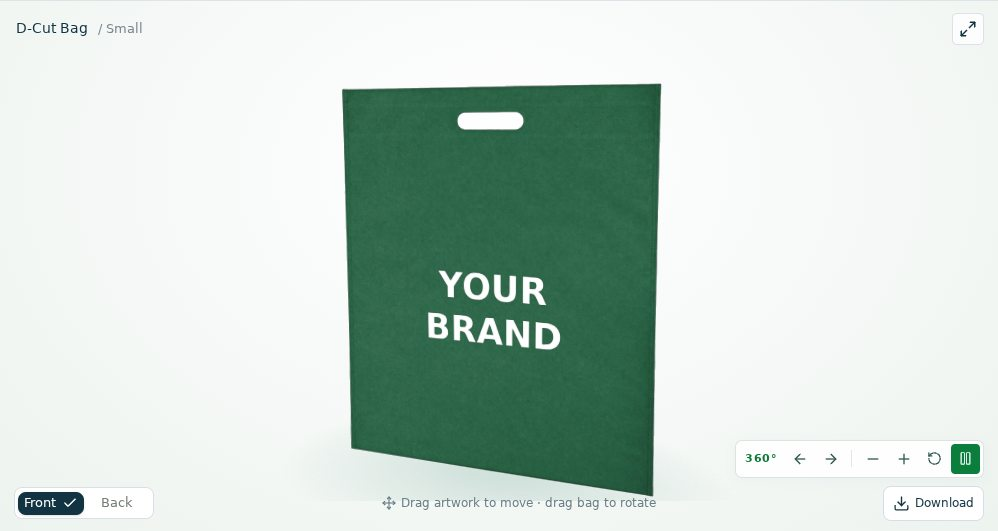
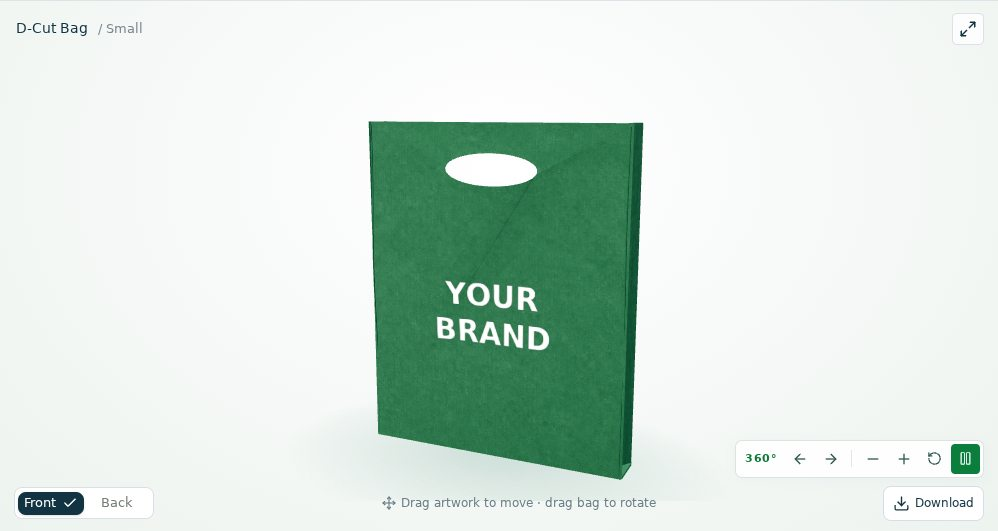
Update Site source

Changed region(s): [[0.3417, 0.1507, 0.6834, 0.9341], [0.4349, 0.7533, 0.4659, 0.7834]]

diff --git a/lib/studio-scene.ts b/lib/studio-scene.ts
@@ -214,6 +214,19 @@ export function createStudioScene(
       s.lineTo(-1.04, 1.07);
       s.quadraticCurveTo(-half, 0.95, -half, 0.65);
       s.closePath();
+    } else if (product === "string-bag") {
+      s.moveTo(-half + 0.12, bottom);
+      s.lineTo(half - 0.12, bottom);
+      s.quadraticCurveTo(half, bottom, half, bottom + 0.13);
+      s.lineTo(half, 0.18);
+      s.quadraticCurveTo(half, 0.65, 0.75, 1.0);
+      s.quadraticCurveTo(0.51, top - 0.06, 0.4, top);
+      s.lineTo(-0.4, top);
+      s.quadraticCurveTo(-0.51, top - 0.06, -0.75, 1.0);
+      s.quadraticCurveTo(-half, 0.65, -half, 0.18);
+      s.lineTo(-half, bottom + 0.13);
+      s.quadraticCurveTo(-half, bottom, -half + 0.12, bottom);
+      s.closePath();
     } else {
       s.moveTo(-half, bottom);
       s.lineTo(half, bottom);
@@ -226,21 +239,41 @@ export function createStudioScene(
     }
     return s;
   }
-  const shaped = product === "d-cut-bag" || product === "t-shirt-bag";
-  // Display the same photographed bag in both preview modes. Geometry only
-  // supplies depth at the silhouette edge; the front is never repainted.
-  const photoShell = true;
+  const shaped = product === "d-cut-bag" || product === "t-shirt-bag" || product === "string-bag";
+  // The product photograph becomes the fabric on a real bag mesh. Side
+  // gussets, the base, mouth and handles are modelled separately.
+  const photoShell = false;
   const photoPlaneSize = 4;
   const photoPlaneCenterY = 0.18;
   const photoFaceZ = depth / 2 + 0.03;
   const photoCanvas = document.createElement("canvas");
   photoCanvas.width = photoCanvas.height = 1440;
-  const photoTexture = photoShell ? new THREE.CanvasTexture(photoCanvas) : null;
+  const photoTexture = new THREE.CanvasTexture(photoCanvas);
+  const clothCanvas = document.createElement("canvas");
+  clothCanvas.width = clothCanvas.height = 256;
+  const clothTexture = new THREE.CanvasTexture(clothCanvas);
+  clothTexture.colorSpace = THREE.SRGBColorSpace;
+  clothTexture.anisotropy = Math.min(8, renderer.capabilities.getMaxAnisotropy());
+  textures.add(clothTexture);
+  // Both photographed faces share a subdivided surface. The image supplies
+  // fabric detail; the mesh supplies the small bulge of a filled bag.
+  const photoFaceGeometry = photoShell
+    ? new THREE.PlaneGeometry(photoPlaneSize, photoPlaneSize, 72, 72)
+    : null;
   if (photoTexture) {
     photoTexture.colorSpace = THREE.SRGBColorSpace;
     photoTexture.anisotropy = Math.min(4, renderer.capabilities.getMaxAnisotropy());
     textures.add(photoTexture);
   }
+  const photographedFabric = new THREE.MeshStandardMaterial({
+    map: photoTexture,
+    bumpMap: bump,
+    bumpScale: 0.012,
+    roughness: 0.92,
+    metalness: 0,
+    side: THREE.FrontSide,
+  });
+  materials.add(photographedFabric);
   if (spec.handles && !photoShell) {
     // The narrow dark opening and rolled upper lip make the bag read as an
     // open, sewn object instead of two flat printed planes.
@@ -260,7 +293,7 @@ export function createStudioScene(
         0.013,
       );
   }
-  function faceGeometry() {
+  function faceGeometry(forPhoto = false) {
     const geometry = shaped
       ? new THREE.ShapeGeometry(outline(), 40)
       : new THREE.PlaneGeometry(width, top - bottom, 56, 56);
@@ -276,8 +309,10 @@ export function createStudioScene(
       const fullHeight = fullTop - bottom;
       const scale = Math.min(650 / width, 690 / fullHeight);
       const centerY = (fullTop + bottom) / 2;
-      uv[i * 2] = (400 + xx * scale) / 800;
-      uv[i * 2 + 1] = 1 - (400 - (y - centerY) * scale) / 800;
+      uv[i * 2] = forPhoto ? (xx + half) / width : (400 + xx * scale) / 800;
+      uv[i * 2 + 1] = forPhoto
+        ? (y - bottom) / (top - bottom)
+        : 1 - (400 - (y - centerY) * scale) / 800;
     }
     geometry.setAttribute("uv", new THREE.BufferAttribute(uv, 2));
     geometry.computeVertexNormals();
@@ -288,7 +323,7 @@ export function createStudioScene(
   for (const face of [1, -1]) {
     const panel = photoShell
       ? add(
-          new THREE.PlaneGeometry(photoPlaneSize, photoPlaneSize),
+          photoFaceGeometry!,
           new THREE.MeshBasicMaterial({
             map: photoTexture,
             transparent: true,
@@ -297,7 +332,7 @@ export function createStudioScene(
             side: THREE.FrontSide,
           }),
         )
-      : add(faceGeometry());
+      : add(faceGeometry(true), photographedFabric);
     if (photoShell) panel.position.set(0, photoPlaneCenterY, face * photoFaceZ);
     if (face < 0) panel.rotation.y = Math.PI;
     faceSides.set(panel, face > 0 ? "front" : "back");
@@ -322,7 +357,7 @@ export function createStudioScene(
     });
     const print = add(
       photoShell
-        ? new THREE.PlaneGeometry(photoPlaneSize, photoPlaneSize)
+        ? photoFaceGeometry!
         : faceGeometry(),
       ink,
     );
@@ -332,7 +367,7 @@ export function createStudioScene(
     if (face < 0) print.rotation.y = Math.PI;
     faceSides.set(print, face > 0 ? "front" : "back");
     if (photoShell) continue;
-    for (const x of [-half + 0.022, half - 0.022]) {
+    for (const x of product === "string-bag" ? [] : [-half + 0.022, half - 0.022]) {
       const pts: THREE.Vector3[] = [];
       const seamTop = product === "t-shirt-bag" ? 0.65 : top - 0.03;
       for (let i = 0; i <= 30; i++) {
@@ -350,16 +385,6 @@ export function createStudioScene(
         }
         seam(pts);
       }
-    if (product === "d-cut-bag") {
-      const pts: THREE.Vector3[] = [];
-      for (let i = 0; i <= 64; i++) {
-        const t = (i / 64) * Math.PI * 2,
-          x = 0.447 * Math.cos(t),
-          y = top - 0.4 + 0.158 * Math.sin(t);
-        pts.push(new THREE.Vector3(xAt(x, y), y, face * (zAt(x, y) + 0.008)));
-      }
-      seam(pts, 0.005);
-    }
     if (spec.handles) {
       const positions: number[] = [],
         indices: number[] = [],
@@ -413,55 +438,8 @@ export function createStudioScene(
       }
     }
   }
-  // Photograph edges determine the gusset outline, so no side can protrude
-  // beyond the photographed bag when it turns.
-  const edgeRows = 44;
-  const photoEdges: { side: number; geometry: THREE.BufferGeometry }[] = [];
-  if (photoShell)
-    for (const side of [-1, 1]) {
-      const geometry = new THREE.BufferGeometry();
-      geometry.setAttribute(
-        "position",
-        new THREE.BufferAttribute(new Float32Array((edgeRows + 1) * 2 * 3), 3),
-      );
-      const indices: number[] = [];
-      for (let i = 0; i < edgeRows; i++) {
-        const n = i * 2;
-        indices.push(n, n + 1, n + 2, n + 1, n + 3, n + 2);
-      }
-      geometry.setIndex(indices);
-      add(geometry, seamMat);
-      photoEdges.push({ side, geometry });
-    }
   let lastPhoto: HTMLCanvasElement | null = null;
-  function updatePhotoEdges(photo: HTMLCanvasElement) {
-    const { width: w, height: h } = photo;
-    const pixels = photo.getContext("2d", { willReadFrequently: true })!
-      .getImageData(0, 0, w, h).data;
-    const start = product === "d-cut-bag" ? 0.12 : 0.37;
-    for (const { side, geometry } of photoEdges) {
-      const position = geometry.attributes.position as THREE.BufferAttribute;
-      for (let row = 0; row <= edgeRows; row++) {
-        // Stop above the folded bottom edge; the photograph already contains
-        // that depth and a generated strip would stick out as a loose triangle.
-        const fraction = start + ((0.78 - start) * row) / edgeRows;
-        const py = Math.min(h - 1, Math.round(fraction * h));
-        let px = side < 0 ? 0 : w - 1;
-        const step = side < 0 ? 1 : -1;
-        while (px >= 0 && px < w && pixels[(py * w + px) * 4 + 3] < 220)
-          px += step;
-        if (px < 0 || px >= w) px = side < 0 ? w * 0.3 : w * 0.7;
-        const x = (px / w - 0.5) * photoPlaneSize - side * 0.12;
-        const y = photoPlaneCenterY + (0.5 - fraction) * photoPlaneSize;
-        position.setXYZ(row * 2, x, y, photoFaceZ - 0.022);
-        position.setXYZ(row * 2 + 1, x, y, -photoFaceZ + 0.022);
-      }
-      position.needsUpdate = true;
-      geometry.computeVertexNormals();
-    }
-  }
-  // The procedural gussets remain available if a future approved 3D model
-  // replaces the photo-backed surfaces.
+  // Side gussets have their own mesh; they carry the fabric crop around the bag.
   const sideTop = product === "t-shirt-bag" ? 0.72 : top;
   if (!photoShell) for (const side of [-1, 1]) {
     const g = new THREE.PlaneGeometry(depth, sideTop - bottom, 16, 40),
@@ -470,10 +448,16 @@ export function createStudioScene(
       const z = pos.getX(i),
         y = pos.getY(i) + (sideTop + bottom) / 2;
       const fold = Math.sin((z / depth + 0.5) * Math.PI) *
-        (product === "box-bag" ? 0.14 : 0.075);
+        (product === "box-bag" ? 0.14 : product === "t-shirt-bag" ? 0.16 : 0.075);
       pos.setXYZ(
         i,
-        side * (Math.abs(xAt(half, y)) - fold - (photoShell ? 0.22 : 0)),
+        side * (
+          (product === "string-bag"
+            ? half * (1 - 0.6 * Math.min(1, Math.max(0, (y - 0.18) / (top - 0.18))))
+            : Math.abs(xAt(half, y))) -
+          fold -
+          (photoShell ? 0.22 : 0)
+        ),
         y,
         z,
       );
@@ -498,26 +482,23 @@ export function createStudioScene(
         );
   }
   if (product === "string-bag" && !photoShell)
-    for (const side of [-1, 1]) {
+    for (const face of [-1, 1]) {
       seam(
         [
-          new THREE.Vector3(side * 0.78, top - 0.08, 0.24),
-          new THREE.Vector3(side * 1.28, top - 0.25, 0.17),
-          new THREE.Vector3(side * 1.52, -0.4, 0.05),
-          new THREE.Vector3(side * 1.15, bottom + 0.03, 0.1),
-          new THREE.Vector3(side * 1.3, -0.25, 0.23),
-          new THREE.Vector3(side * 0.7, top - 0.13, 0.3),
+          new THREE.Vector3(-0.38, top - 0.05, face * (depth / 2 + 0.015)),
+          new THREE.Vector3(0, top - 0.18, face * (depth / 2 + 0.04)),
+          new THREE.Vector3(0.38, top - 0.05, face * (depth / 2 + 0.015)),
         ],
-        0.018,
+        0.015,
         cordMat,
       );
       seam(
         [
-          new THREE.Vector3(-0.88, top - 0.12, 0.25),
-          new THREE.Vector3(0, top - 0.14, 0.27),
-          new THREE.Vector3(0.88, top - 0.12, 0.25),
+          new THREE.Vector3(0.12, top - 0.16, face * (depth / 2 + 0.05)),
+          new THREE.Vector3(0.25, top - 0.42, face * (depth / 2 + 0.08)),
+          new THREE.Vector3(0.22, top - 0.7, face * (depth / 2 + 0.07)),
         ],
-        0.014,
+        0.012,
         cordMat,
       );
     }
@@ -899,16 +880,92 @@ export function createStudioScene(
       selection = selected;
       const hex = (colors.find((c) => c.name === design.color) || colors[0])
         .hex;
-      fabric.color.set(hex);
+      fabric.color.set(0xffffff);
       seamMat.color.set(hex).multiplyScalar(0.84);
       innerMat.color.set(hex).multiplyScalar(0.48);
-      if (photoTexture && photo) {
-        photoTexture.image = photo;
+      if (photo && photo !== lastPhoto) {
+          // Crop the actual photographed front panel into the UV space of the
+          // volumetric face. The same source supplies the side fabric weave.
+          const crop: Record<string, [number, number, number, number]> = {
+            "box-bag": [0.33, 0.31, 0.81, 0.93],
+            "handle-bag": [0.30, 0.43, 0.72, 0.93],
+            "t-shirt-bag": [0.35, 0.08, 0.77, 0.93],
+            "d-cut-bag": [0.14, 0.02, 0.86, 0.93],
+            "string-bag": [0.13, 0.07, 0.87, 0.93],
+          };
+          const [l, t, r, b] = crop[product] || crop["box-bag"];
+          const source = photo.getContext("2d", { willReadFrequently: true })!;
+          const sample = source.getImageData(
+            Math.floor(photo.width * (l + r) / 2),
+            Math.floor(photo.height * (t * 0.2 + b * 0.8)),
+            1,
+            1,
+          ).data;
+          const ground = `rgb(${sample[0]},${sample[1]},${sample[2]})`;
+          const face = photoCanvas.getContext("2d")!;
+          face.clearRect(0, 0, photoCanvas.width, photoCanvas.height);
+          face.fillStyle = ground;
+          face.fillRect(0, 0, photoCanvas.width, photoCanvas.height);
+          face.drawImage(
+            photo,
+            l * photo.width,
+            t * photo.height,
+            (r - l) * photo.width,
+            (b - t) * photo.height,
+            0,
+            0,
+            photoCanvas.width,
+            photoCanvas.height,
+          );
+          if (product === "d-cut-bag") {
+            // Use the unprinted fabric in the supplied image across the face.
+            // The grip opening belongs to the mesh, so the photographed hole
+            // must not appear a second time at another position.
+            face.drawImage(
+              photo,
+              photo.width * 0.3,
+              photo.height * 0.3,
+              photo.width * 0.4,
+              photo.height * 0.52,
+              0,
+              0,
+              photoCanvas.width,
+              photoCanvas.height,
+            );
+          }
+          const cloth = clothCanvas.getContext("2d")!;
+          cloth.clearRect(0, 0, 256, 256);
+          cloth.fillStyle = ground;
+          cloth.fillRect(0, 0, 256, 256);
+          if (product === "t-shirt-bag")
+            cloth.drawImage(
+              photo,
+              photo.width * 0.25,
+              photo.height * 0.32,
+              photo.width * 0.19,
+              photo.height * 0.59,
+              0,
+              0,
+              256,
+              256,
+            );
+          else
+            cloth.drawImage(
+              photo,
+              photo.width * (l + r) / 2 - 110,
+              photo.height * (t * 0.22 + b * 0.78) - 110,
+              220,
+              220,
+              0,
+              0,
+              256,
+              256,
+            );
+          clothTexture.needsUpdate = true;
+          fabric.map = clothTexture;
+          fabric.needsUpdate = true;
         photoTexture.needsUpdate = true;
-        if (photo !== lastPhoto) {
-          updatePhotoEdges(photo);
-          lastPhoto = photo;
-        }
+        lastPhoto = photo;
       }
       [front, back].forEach((artwork, i) => {
         faceBounds[i === 0 ? "front" : "back"] = artwork.bounds;

diff --git a/docs/DEVELOPER-HANDOFF.md b/docs/DEVELOPER-HANDOFF.md
@@ -139,9 +139,9 @@ Use approved per-variant print templates, original-file storage, file validation
 
 ### Compact five-family 3D designer
 
-`components/studio-3d.tsx` lazy-loads `lib/studio-scene.ts` when the 3D view mounts. The 3D view opens by default. All five families use the same transparent front/back product surface as their flat preview; narrow side geometry follows each photo's alpha silhouette above the folded base. `MeshBasicMaterial` displays the source photograph without light-based washing out. The shape remains a shallow visual approximation rather than production CAD; catalogue size selection updates the specification, not approved physical geometry. The scene has no additional dependency beyond the existing Three.js install.
+`components/studio-3d.tsx` lazy-loads `lib/studio-scene.ts` when the 3D view mounts. The 3D view opens by default. Each of the five families now has a front and back mesh, separate fabric-textured side gussets and base, and its own handle or closure geometry. The D-Cut and T-Shirt models have physical handle openings; the drawstring body narrows toward its closure. The front material uses a crop of the matching supplied product photograph, while a nearby fabric crop textures the sides and handles. Artwork is mapped to both curved face meshes. This is a rotatable, volumetric illustration based on a single photo per family, not a scanned object or production CAD. Catalogue size selection updates the specification, not approved physical geometry. The scene has no additional dependency beyond the existing Three.js install.
 
-`renderArtworkTexture` in `components/bag-preview.tsx` shares the artwork painter with the flat renderer. It returns a transparent 1024px canvas plus logical artwork bounds for each face, preserving independent text/logo placement, rotation, ink, alignment and image aspect ratios. `renderBlankBagTexture` supplies every bag's photo surface at the same dimensions as the editable flat mockup; keep its texture coordinates and `lib/studio-artwork.ts` bounds aligned if replacing an asset. Natural T-Shirt uses `studio-real-t-shirt-natural.png` directly; natural Handle and Box retain their source photo colors. Other colors use the runtime tint and remain indicative. Revision tokens discard stale asynchronous results. Only a family change reconstructs the scene; editing updates material colors and existing textures. The established draft/RFQ/proof contracts and PNG exports are unchanged. Both 3D and the flat **Photo + artwork** view support direct placement. `docs/studio-real-photo-sources.json` maps each blank cutout to its source.
+`renderArtworkTexture` in `components/bag-preview.tsx` shares the artwork painter with the flat renderer. It returns a transparent 1024px canvas plus logical artwork bounds for each face, preserving independent text/logo placement, rotation, ink, alignment and image aspect ratios. `renderBlankBagTexture` supplies the colorized source photograph. The 3D scene crops its front fabric and a smaller cloth patch from that canvas; keep those crop coordinates in `lib/studio-scene.ts` aligned if replacing an asset. Natural T-Shirt uses `studio-real-t-shirt-natural.png` directly; natural Handle and Box retain their source photo colors. Other colors use the runtime tint and remain indicative. Revision tokens discard stale asynchronous results. Only a family change reconstructs the scene; editing updates material colors and existing textures. The established draft/RFQ/proof contracts and PNG exports are unchanged. Both 3D and the flat **Photo + artwork** view support direct placement. `docs/studio-real-photo-sources.json` maps each blank cutout to its source.
 
 OrbitControls supports drag and keyboard rotation. Dedicated controls provide rotation, zoom, reset and spin. Front/back changes align the view. The untouched default bag starts a slow spin to show that the view rotates; selecting artwork, dragging, using a control, or entering editing mode stops it. Saved designs do not auto-spin, and reduced-motion users receive a still view. Pixel ratio is capped at 1.8; rendering settles after interaction and pauses offscreen or when the document is hidden. Cleanup disposes controls, geometry, materials, textures, observers, listeners and renderer. WebGL initialization/context failure exposes a usable flat fallback without discarding the draft.
 

diff --git a/docs/DESIGN-HANDOFF.md b/docs/DESIGN-HANDOFF.md
@@ -98,7 +98,7 @@ Mobile is a primary review surface. Keep 44px main actions/menu rows, readable 1
 | `docs/asset-sources.json`, `docs/client-media-2026-09-28.json` | Original asset sources and newly supplied archive selection |
 | `docs/source-catalog.json` | Original catalog snapshot with 15 variants |
 
-The designer offers illustrative 3D family models and flat artwork previews. Family geometry does not change physical proportions for each catalogue size. Neither view is an approved dieline, production CAD, color sample or guarantee of printable area. Production work should substitute approved per-variant templates or approved 3D assets. Preview downloads carry a concept label.
+The designer offers rotatable 3D family models with photographed fabric on the front/back and matching cloth texture on modelled gussets, bases and handles, alongside flat artwork previews. The models are built from one supplied photo per family, so unseen surfaces are reconstructed, and geometry does not change physical proportions for each catalogue size. Neither view is an approved dieline, production CAD, color sample or guarantee of printable area. Production work should substitute approved per-variant templates or approved 3D assets. Preview downloads carry a concept label.
 
 The 28 September 2026 client archive supplied 72 photos and 105 short portrait videos. Thirty-three original photographs, two video-frame posters and two short clips were curated for distinct placements across the site; the existing horizontal process film remains on the homepage. Kobags assets remain subject to their owner's rights. The archive is a handoff for this project; it does not grant trademark, photo or video rights for unrelated brands. Replace brand assets when using the architecture for another business.
 
